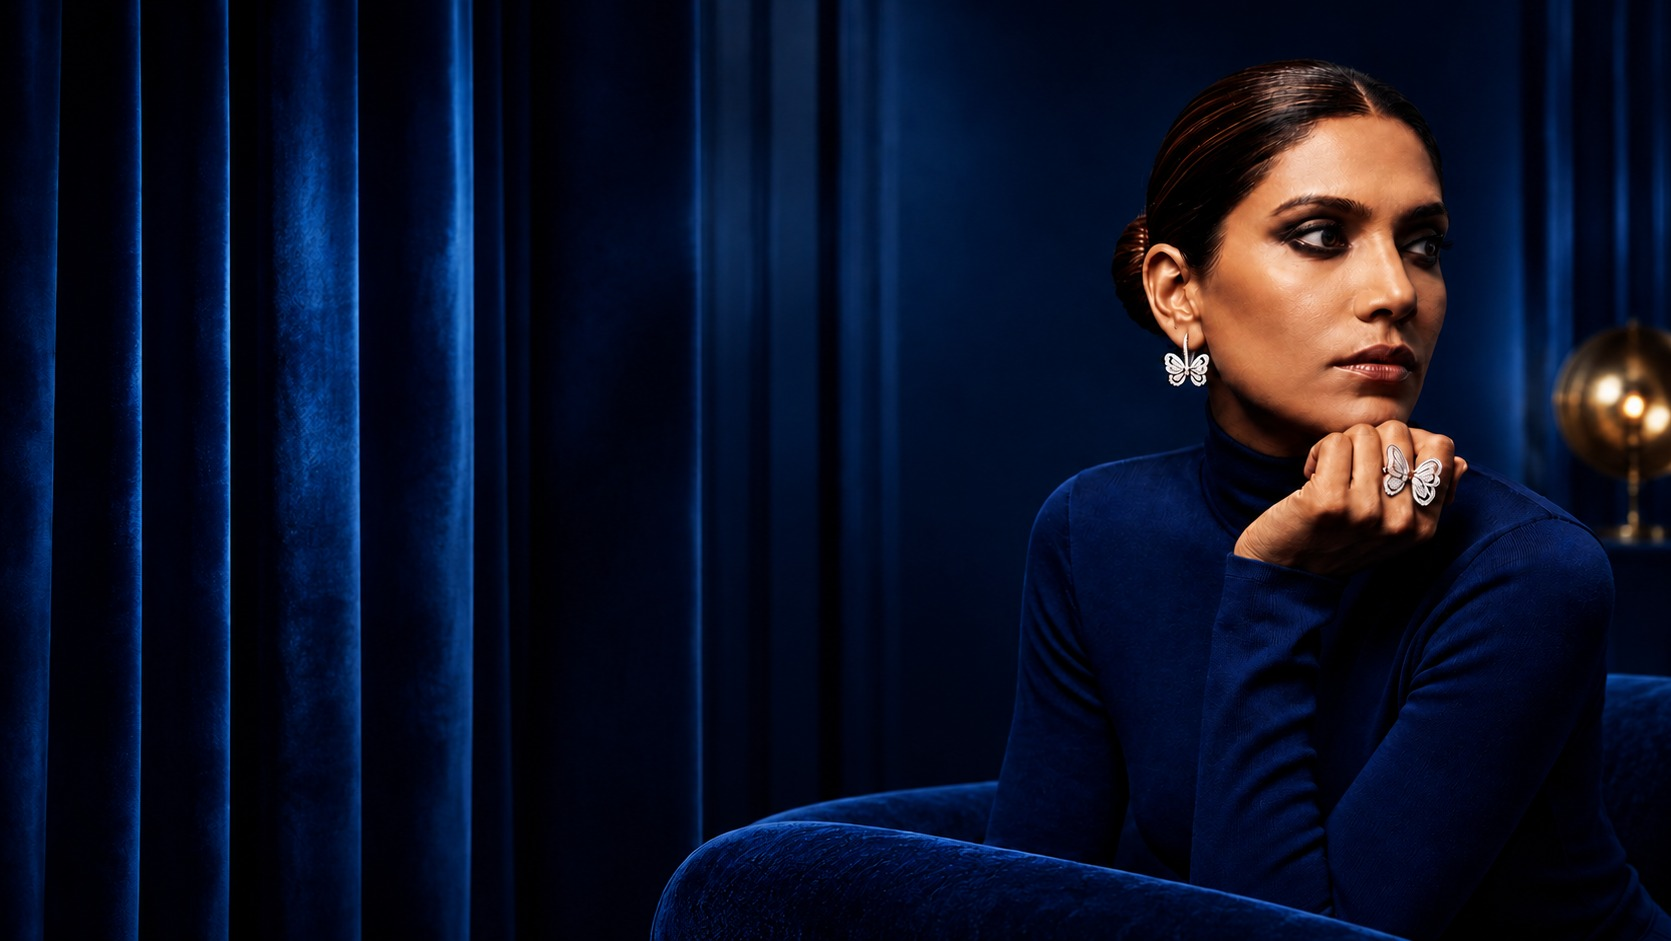
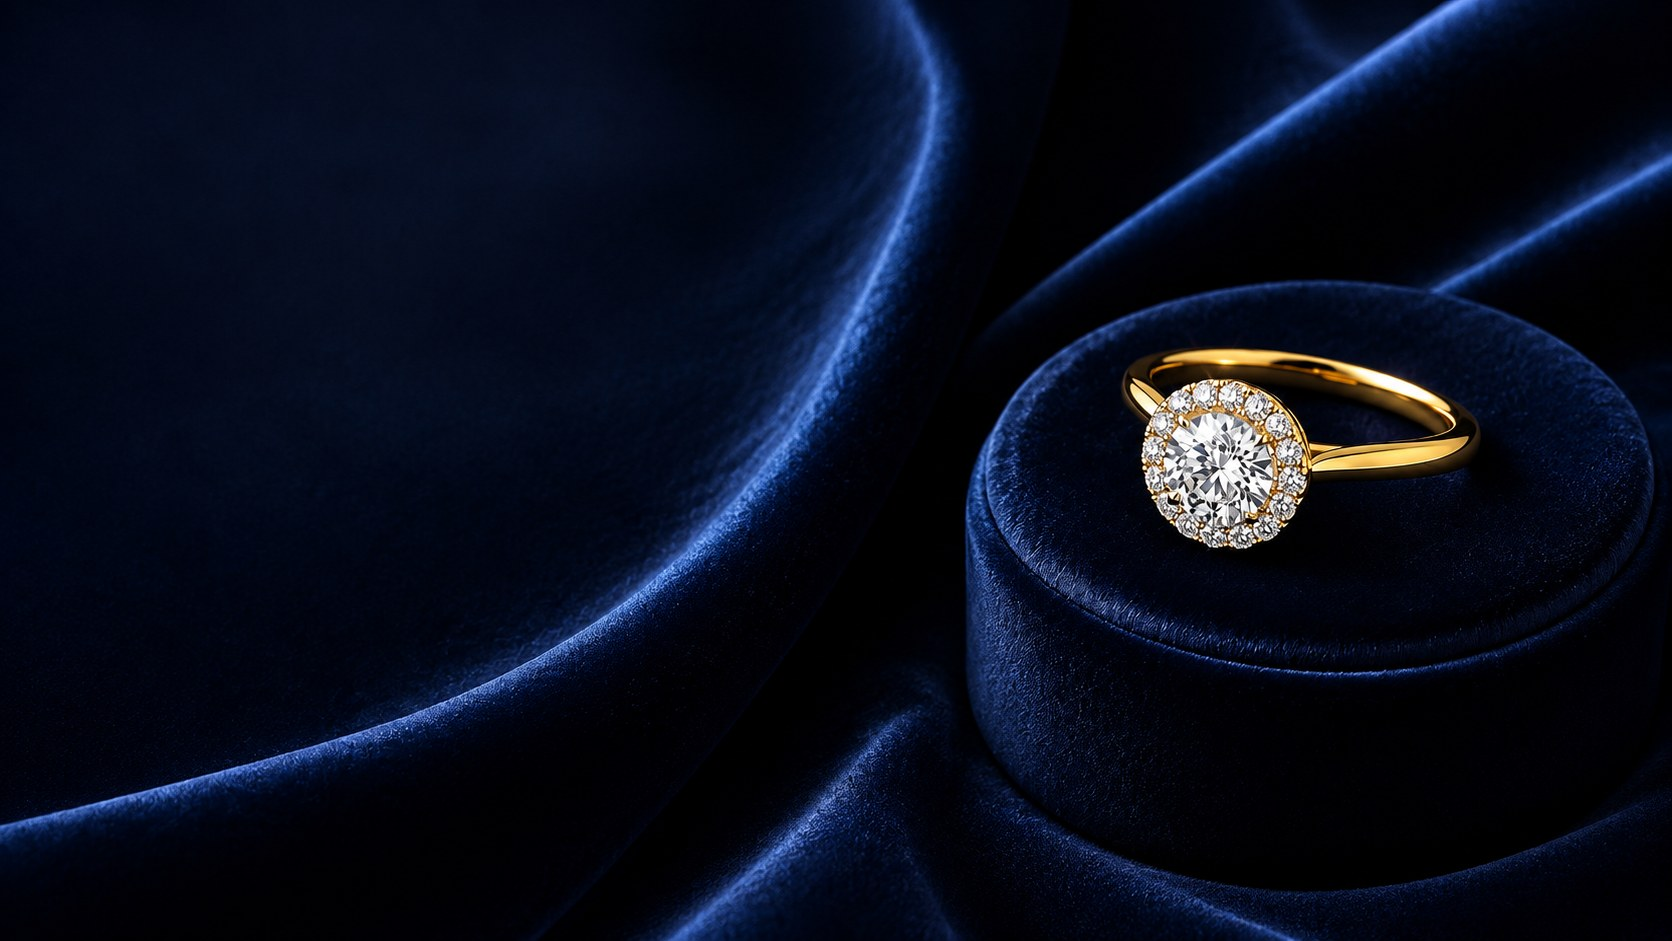
Replace login/signup wallpaper with new diamond halo ring photo
Claude-Session: https://claude.ai/code/session_01JQcae1dja8wrFpQ8VD6xJD

diff --git a/app/signup/page.tsx b/app/signup/page.tsx
@@ -5,35 +5,37 @@ import AuthForm from "@/components/auth-form";
 export default function SignupPage() {
   return (
     <main className="relative min-h-screen overflow-hidden bg-ink">
-      {/* Full-bleed background — the client's navy-velvet butterfly-jewellery
-          banner covers the whole screen. Swaps to the portrait crop below the
-          sm breakpoint. A soft radial vignette (not a hard rectangle) darkens
-          the centre just enough for the form to read, so it never looks like
-          a "card" dropped on the photo. */}
+      {/* Full-bleed background — client replaced the butterfly-jewellery
+          banner with a new diamond-halo-ring-in-a-box shot on navy velvet
+          (Sep 2026), saved over these same filenames so only alt text +
+          object-position needed updating. Swaps to the portrait crop below
+          the sm breakpoint. A soft radial vignette (not a hard rectangle)
+          darkens the centre just enough for the form to read, so it never
+          looks like a "card" dropped on the photo. */}
       <div className="absolute inset-0">
         <Image
           src="/images/auth-visual-desktop.jpg"
-          alt="NORVIK JEWELS butterfly diamond earrings and ring"
+          alt="NORVIK JEWELS diamond halo ring"
           fill
           priority
-          // Model sits in the right ~45% of this landscape photo, face/hands
-          // around x 78%, y 35% down. The photo's own aspect (~16:9) already
-          // matches most monitors, so this mainly protects ultrawide screens
-          // (which crop top/bottom) from losing her face, and narrow desktop
-          // windows (which crop left/right) from losing her to the left edge.
-          className="hidden object-cover object-[75%_35%] sm:block"
+          // Ring sits roughly x 68-88%, y 37-58% in this landscape crop
+          // (measured by locating the brightest/whitest cluster — the
+          // diamonds — plus the gold band). Biasing the crop there keeps it
+          // in frame on both ultrawide (crops top/bottom) and narrower
+          // desktop windows (crops left/right).
+          className="hidden object-cover object-[76%_46%] sm:block"
           sizes="100vw"
         />
         <Image
           src="/images/auth-visual-mobile.jpg"
-          alt="NORVIK JEWELS butterfly diamond earrings and ring"
+          alt="NORVIK JEWELS diamond halo ring"
           fill
           priority
-          // Face/hands sit around x 65-75% across this portrait crop. On
-          // tall/narrow phones (aspect narrower than the photo's own ~9:16)
-          // object-cover crops from the sides — biasing the crop right keeps
-          // her fully in frame instead of a centered crop trimming her out.
-          className="object-cover object-[68%_50%] sm:hidden"
+          // Ring sits roughly x 55-89%, y 50-61% in this portrait crop. On
+          // tall/narrow phones object-cover crops from the sides — biasing
+          // right keeps the ring fully in frame instead of a centered crop
+          // trimming it out.
+          className="object-cover object-[69%_55%] sm:hidden"
           sizes="100vw"
         />
         <div className="absolute inset-0 bg-[radial-gradient(ellipse_65%_55%_at_50%_50%,rgba(5,8,18,0.85)_0%,rgba(5,8,18,0.6)_55%,rgba(5,8,18,0.2)_100%)]" />

diff --git a/app/login/page.tsx b/app/login/page.tsx
@@ -5,35 +5,37 @@ import AuthForm from "@/components/auth-form";
 export default function LoginPage() {
   return (
     <main className="relative min-h-screen overflow-hidden bg-ink">
-      {/* Full-bleed background — the client's navy-velvet butterfly-jewellery
-          banner covers the whole screen. Swaps to the portrait crop below the
-          sm breakpoint. A soft radial vignette (not a hard rectangle) darkens
-          the centre just enough for the form to read, so it never looks like
-          a "card" dropped on the photo. */}
+      {/* Full-bleed background — client replaced the butterfly-jewellery
+          banner with a new diamond-halo-ring-in-a-box shot on navy velvet
+          (Sep 2026), saved over these same filenames so only alt text +
+          object-position needed updating. Swaps to the portrait crop below
+          the sm breakpoint. A soft radial vignette (not a hard rectangle)
+          darkens the centre just enough for the form to read, so it never
+          looks like a "card" dropped on the photo. */}
       <div className="absolute inset-0">
         <Image
           src="/images/auth-visual-desktop.jpg"
-          alt="NORVIK JEWELS butterfly diamond earrings and ring"
+          alt="NORVIK JEWELS diamond halo ring"
           fill
           priority
-          // Model sits in the right ~45% of this landscape photo, face/hands
-          // around x 78%, y 35% down. The photo's own aspect (~16:9) already
-          // matches most monitors, so this mainly protects ultrawide screens
-          // (which crop top/bottom) from losing her face, and narrow desktop
-          // windows (which crop left/right) from losing her to the left edge.
-          className="hidden object-cover object-[75%_35%] sm:block"
+          // Ring sits roughly x 68-88%, y 37-58% in this landscape crop
+          // (measured by locating the brightest/whitest cluster — the
+          // diamonds — plus the gold band). Biasing the crop there keeps it
+          // in frame on both ultrawide (crops top/bottom) and narrower
+          // desktop windows (crops left/right).
+          className="hidden object-cover object-[76%_46%] sm:block"
           sizes="100vw"
         />
         <Image
           src="/images/auth-visual-mobile.jpg"
-          alt="NORVIK JEWELS butterfly diamond earrings and ring"
+          alt="NORVIK JEWELS diamond halo ring"
           fill
           priority
-          // Face/hands sit around x 65-75% across this portrait crop. On
-          // tall/narrow phones (aspect narrower than the photo's own ~9:16)
-          // object-cover crops from the sides — biasing the crop right keeps
-          // her fully in frame instead of a centered crop trimming her out.
-          className="object-cover object-[68%_50%] sm:hidden"
+          // Ring sits roughly x 55-89%, y 50-61% in this portrait crop. On
+          // tall/narrow phones object-cover crops from the sides — biasing
+          // right keeps the ring fully in frame instead of a centered crop
+          // trimming it out.
+          className="object-cover object-[69%_55%] sm:hidden"
           sizes="100vw"
         />
         <div className="absolute inset-0 bg-[radial-gradient(ellipse_65%_55%_at_50%_50%,rgba(5,8,18,0.85)_0%,rgba(5,8,18,0.6)_55%,rgba(5,8,18,0.2)_100%)]" />
